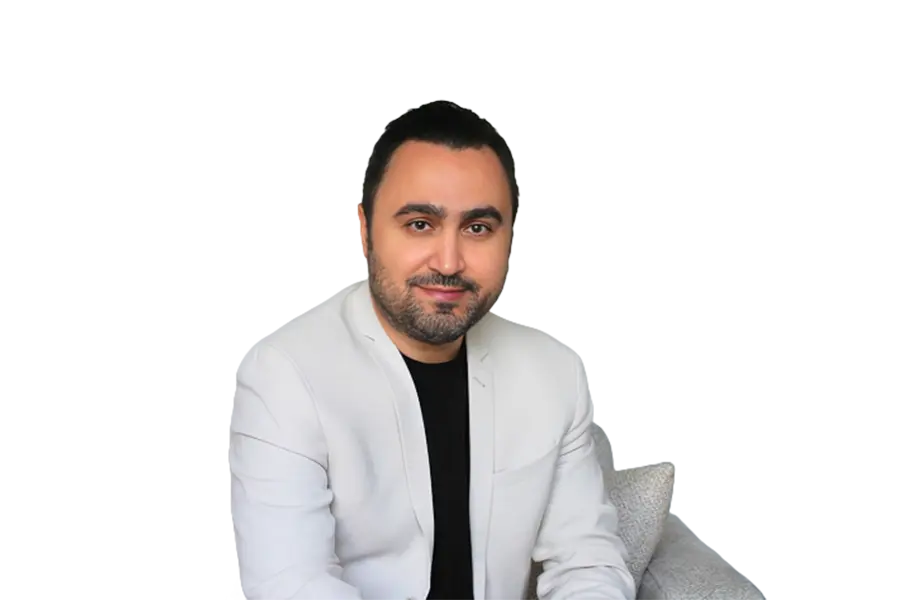
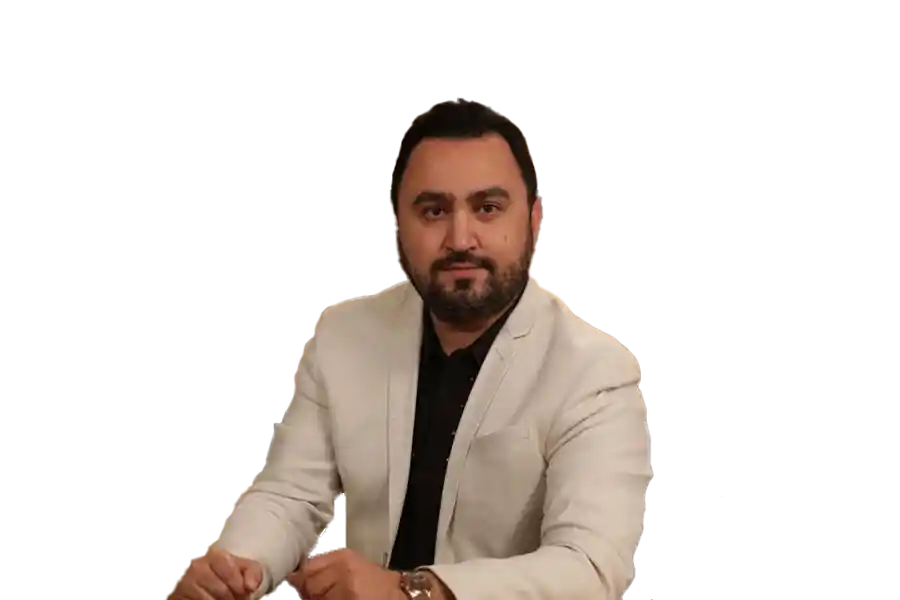
update therapists and cv

Changed region(s): [[0.1867, 0.15, 0.8711, 1.0]]

diff --git a/src/app/therapists/therapistsCVData.ts b/src/app/therapists/therapistsCVData.ts
@@ -12,12 +12,74 @@ export const therapistsCVData: TherapistCV[] = [
     { id: "5", rawCv: "" },
     { id: "6", rawCv: "" },
     { id: "7", rawCv: "" },
-    { id: "8", rawCv: "" },
+    {
+        id: "8",
+        rawCv: `
+ویزیت بصورت حضوری و انلاین:
+ویزیت آنلاین تمام روزهای هفته و حضوری پنجشنبه ها
+شماره پروانه و نظام روانشناسی : ۱۲۴۵۸۹۱
+
+رویکرد درمانی : ACT-CBT
+
+من درمان را یک رابطه میدانم، نه مجموعهای از تکنیکها.
+اتاق درمان برای من فضایی امن است؛ جایی که مراجع میتواند بدون ترس از قضاوت، خودش باشد.
+باور دارم تغییر از دلِ آگاهی و تجربه هیجانیِ امن شکل میگیرد، نه صرفاً از توصیه و راهکار.
+نقش من همراهی کردن است؛ کمک به دیدن الگوها، فهمیدن ریشهها و ساختن انتخابهای تازه.
+
+زمینه های تخصص فعالیت :
+زوج درمانی (تعارض های زناشویی و مشاوره پیش از ازدواج)
+درمان فردی (اضطراب، تنظیم هیجان، افسردگی و اختلالات خلقی)
+
+گروه سنی مراجعین: نوجوان و بزرگسال
+
+فارغ التحصیل دکتری تخصصی روانشناسی دانشگاه تهران
+
+تجربه کاری:
+
+از سال ۱۳۹۷ به مدت ۸ سال فعالیت مشاوره و درمان رو انجام میدم.
+`},
     { id: "9", rawCv: "" },
     { id: "10", rawCv: "" },
     { id: "11", rawCv: "" },
     { id: "12", rawCv: "" },
-    { id: "13", rawCv: "" },
+    {
+        id: "13",
+        rawCv: `
+        
+روزهای حضور:
+
+پنجشنبه ها
+
+سوابق تحصیلی:
+
+کارشناسی ارشد مشاوره از دانشگاه علامه طباطبایی
+
+شماره نظام روانشناسی 46981
+شماره پروانه روانشناسی 9293
+
+سوابق شغلی:
+درمانگر مرکز ایران نخاع از سال 1399 تاکنون
+درمانگر کلینیک روزنه از سال 1400 تاکنون
+درمانگر کلینیک نورسین از سال 1403 تاکنون
+مسئول فنی مرکز مثبت زندگی کد 13191 از سال 1400 تاکنون
+
+حیطه فعالیت:
+درمانگر حوزه فردی و نوجوان
+و حوزه اضطراب، وسواس، افسردگی، سوگ و تروما
+
+رویکرد تخصصی: CBT, ACT
+
+دوره های گذرانده:
+
+دوره کارورزی دکتر محسن محمدی و دکتر کیومرث فرحبخش
+سوپرویژن پیشرفته دکتر محمدی
+تربیت درمانگر کودک نوجوان دکتر سیما قدرتی
+
+
+دیدگاه من به درمان:
+
+درمان سفری مشترک است، جایی که من همراهتان میشوم تا سختیها را آسان تر پشت سر بگذارید. در اتاق درمان لازم نیست کامل باشید؛ همینطور که هستید کافی ست تا با هم برای ساختنِ لحظههایی آرامتر و نسخه ای اصیل تر از خودتان تلاش کنیم.
+`},
     { id: "14", rawCv: "" },
     { id: "15", rawCv: "" },
     {
@@ -124,5 +186,107 @@ Cbt
 مشاوره حضوری و آن لاین ۱۲۰۰
 برای مراجعین خارج از کشور ۳۰ یورو  
 
-🌱پرانرژی باش و آگاه🌱`}
-]
+🌱پرانرژی باش و آگاه🌱`},
+    {
+        id: "22",
+        rawCv: `
+ویزیت بهصورت
+حضوری
+آنلاین
+
+شماره پروانه : 1642157
+نظام روانشناسی :51398
+
+رویکرد درمانی
+درمان مبتنی بر اصالت و درمان شناختی/رفتاری - درمان هیجان مدار - رویکرد رفتار درمانی عقلانی/هیجانی و یکپارچهنگر
+
+نگاه به درمان و یا اتاق درمان:
+
+«اتاق درمان را فضایی انسانی، امن و مبتنی بر اصالت در رابطه میدانم؛ جایی که مراجع بتواند بدون ترس از قضاوت، لایههای مختلف تجربه زیسته، هیجانات و معنای شخصی خود را کشف کند. باور دارم تغییر درمانی در بستری از حضور واقعی، همدلی و پذیرش شکل میگیرد و نقش درمانگر، همراهی آگاهانه در مسیر شناخت عمیقتر خویشتن است.»
+
+زمینههای تخصصی فعالیت:
+زوجدرمانی
+خانواده
+فردی
+پیشاز ازدواج
+
+گروه سنی که مراجع
+بزرگسالان (۱۸ سال به بالا)
+
+فارغ التحصیل مقطع کارشناسی ارشد از دانشگاه آزاد اسلامی واحد تهرانمرکز سال ۱۴۰۰ رشته روانشناسی مثبتگرا
+
+تجربه کاری: در کلینیک روزنه و چند کلینیک دیگر
+
+از سال ۱۴۰۰ شروع به کار کردم.
+
+تعرفه:
+آنلاین و حضوری مبلغ ۸۵۰ تومن`},
+    {
+        id: "23",
+        rawCv: `
+تهران
+حضوری و انلاین
+حضوری : یکشنبه و دوشنبه و سه شنبه
+ساعت ۱۶ به بعد
+غیر حضوری : شنبه و چهارشنبه
+شماره نظام روانشناسی ۸۷۶۶۵
+شماره تماس : شماره کلینیک
+
+رویکرد درمانی : اکت - اصالت - cbt
+
+زمینه تخصص : زوجی ( خانواده ) س-  پیش از ازدواج -   فردی و نوجوان
+
+اتاق درمان از نظر من فضایی است برای ایجاد تغییرات رو به رشد ،یادگیری ،نگاهی دوباره به خودمان و یادگیری هر آنچه نیاز درونمان هست ، فضایی برای بازگو کردن ناگفته های درون ، و تجربه یک زندگی دوباره
+
+فارغ التحصیل مقطع کارشناسی ارشد در رشته مشاوره خانواده
+تعرفه برای سال ۱۴۰۵
+حضوری  ۱۵۰۰
+غیر حضوری ۱۲۰۰
+مراجعین خارج از کشور ۴۰ دلار
+`},
+    {
+        id: "24",
+        rawCv: `
+ویزیت به صورت آنلاین و حضوری
+۱۷۳۳۸۴۹ شماره پروانه
+
+رویکرد درمانی : سیستمی، اکت، اصالت، شناختی رفتاری
+
+اتاق درمان فضایی که عاشقانه دوستش دارم
+
+مشاوره فردی ،زوج درمانی، مشاوره ازدواج و خانواده درمانگر
+
+بزرگسالان
+
+فارغالتحصیل کارشناسی ارشد مشاوره خانواده
+
+برگزاری کارگاه های زوج درمانی و توسعه فردی
+
+از سال ۹۹ شروع به کار
+
+تعرفه ساعتی ۱،۳۰۰
+`},
+    {
+        id: "25",
+        rawCv: `
+تهران
+دکترای تخصصی مشاوره
+
+رویکرد: رفتاردرمانی دیالکتیکی ، هیپنوتراپی
+
+کارشناسی از دانشگاه شهید بهشتی، ارشد از دانشگاه علامه طباطبایی، دکترا از دانشگاه اراک و داراى گواهینامه هاى تکمیلی و پیشرفته هیپنوتیزم درمانی از انجمن هیپنوتیزم بالینی ایران و گواهینامه روانکاوی و طرح واره درمانی.
+
+حوزه فعالیت : بزرگسال / روانشناسی فردی، مسائل بین فردی و ارتباطی، رشد و توسعه فردی.
+
+شماره پروانه ۲۴۳۱ شماره نظام ۳۶۱۳
+
+حضوری: شنبه چهارشنبه
+تلفنی: دوشنبه و سه شنبه
+
+تعرفه حضوری و تلفنی ۱۷۰۰
+تعرفه خارج از کشور: ۴۰ یورو
+(تعرفه ها برای نیمسال اول ۱۴۰۵ میباشد)
+
+تماس با درمانگر: ۰۹۹۲۵۷۲۷۷۳۹
+`}]
+

diff --git a/src/app/therapists/page.tsx b/src/app/therapists/page.tsx
@@ -81,7 +81,7 @@ const mockTherapists: Therapist[] = [
     },
     {
         "id": "8",
-        "name": "رضا معیری",
+        "name": "دکتر رضا معیری",
         "specializations": ["مشاوره فردی وسواس، افسردگی، شكست عاطفی و ...", "مشاوره پیش از ازدواج، زوج و خانواده درمانی", "مشاوره در زمینه تعارض ها و مشکلات بین فردی"],
         "rating": 4.5, "experience": 10, "hourlyRate": 300000,
         "bio": "دکترای تخصصی روانشناسی - درمانگر بالینی مشاوره فردی (وسواس، افسردگی، شكست عاطفی و ...) مشاوره پیش از ازدواج، زوج و خانواده درمانی مشاوره در زمینه تعارض ها و مشکلات بین فردی",
@@ -179,6 +179,34 @@ const mockTherapists: Therapist[] = [
         "specializations": [" اختلالات اضطرابی - ارتقای رشد و توسعه فردی - بزرگسالان - درمان اختلالات افسردگی  "], "rating": 4.5, "experience": 10, "hourlyRate": 300000,
         "bio": "متخصص روانشناسی بالینی - - مشاوره فردی  در خصوص اختلالات شخصیت( وسواس ، اضطراب، افسردگی و .. ) - مشاوره پیش از ازدواج - زوج و خانواده درمانی",
         "image": "/psychologists/21/21.webp", "languages": ["فارسی"], "availableSlots": 10
+    },
+    {
+        "id": "22",
+        "name": "سیده زهرا نوریزاده",
+        "specializations": [" زوجدرمانی - خانواده - فردی - پیشاز ازدواج   "], "rating": 4.5, "experience": 10, "hourlyRate": 300000,
+        "bio": "متخصص روانشناسی بالینی - - مشاوره فردی  در خصوص اختلالات شخصیت( وسواس ، اضطراب، افسردگی و .. ) - مشاوره پیش از ازدواج - زوج و خانواده درمانی",
+        "image": "/psychologists/22/22.webp", "languages": ["فارسی"], "availableSlots": 10
+    },
+    {
+        "id": "23",
+        "name": "فاطمه ماه روح ",
+        "specializations": [" زوجی ( خانواده )  - پیش از ازدواج  - فردی -نوجوان   "], "rating": 4.5, "experience": 10, "hourlyRate": 300000,
+        "bio": "متخصص روانشناسی بالینی - - مشاوره فردی  در خصوص اختلالات شخصیت( وسواس ، اضطراب، افسردگی و .. ) - مشاوره پیش از ازدواج - زوج و خانواده درمانی",
+        "image": "/psychologists/23/23.webp", "languages": ["فارسی"], "availableSlots": 10
+    },
+    {
+        "id": "24",
+        "name": "یاسمن طبائیان ",
+        "specializations": [" مشاوره فردی - زوج درمانی - مشاوره ازدواج - خانواده درمانگر بزرگسالان   "], "rating": 4.5, "experience": 10, "hourlyRate": 300000,
+        "bio": "متخصص روانشناسی بالینی - - مشاوره فردی  در خصوص اختلالات شخصیت( وسواس ، اضطراب، افسردگی و .. ) - مشاوره پیش از ازدواج - زوج و خانواده درمانی",
+        "image": "/psychologists/24/24.webp", "languages": ["فارسی"], "availableSlots": 10
+    },
+    {
+        "id": "25",
+        "name": "محمد بدرخانی",
+        "specializations": [" بزرگسال -  فردی - مسائل بین فردی و ارتباطی - رشد و توسعه فردی    "], "rating": 4.5, "experience": 10, "hourlyRate": 300000,
+        "bio": "متخصص روانشناسی بالینی - - مشاوره فردی  در خصوص اختلالات شخصیت( وسواس ، اضطراب، افسردگی و .. ) - مشاوره پیش از ازدواج - زوج و خانواده درمانی",
+        "image": "/psychologists/25/25.webp", "languages": ["فارسی"], "availableSlots": 10
     }
 ]
 

diff --git a/src/app/therapists/[id]/page.tsx b/src/app/therapists/[id]/page.tsx
@@ -79,7 +79,7 @@ const mockTherapists: Therapist[] = [
     },
     {
         "id": "8",
-        "name": "رضا معیری",
+        "name": " دکتر رضا معیری ",
         "rating": 4.5, "experience": 10, "hourlyRate": 300000,
         "image": "/psychologists/8/image (5).webp", "languages": ["فارسی"], "availableSlots": 10
     },
@@ -157,9 +157,33 @@ const mockTherapists: Therapist[] = [
     },
     {
         "id": "21",
-        "name": "بهاره نعمتی روشن",
+        "name": "منصوره روحانی فر",
         "rating": 4.5, "experience": 10, "hourlyRate": 300000,
         "image": "/psychologists/21/21.webp", "languages": ["فارسی"], "availableSlots": 10
+    },
+    {
+        "id": "22",
+        "name": "سیده زهرا نوریزاده",
+        "rating": 4.5, "experience": 10, "hourlyRate": 300000,
+        "image": "/psychologists/22/22.webp", "languages": ["فارسی"], "availableSlots": 10
+    },
+    {
+        "id": "23",
+        "name": "فاطمه ماه روح ",
+        "rating": 4.5, "experience": 10, "hourlyRate": 300000,
+        "image": "/psychologists/23/23.webp", "languages": ["فارسی"], "availableSlots": 10
+    },
+    {
+        "id": "24",
+        "name": "یاسمن طبائیان ",
+        "rating": 4.5, "experience": 10, "hourlyRate": 300000,
+        "image": "/psychologists/24/24.webp", "languages": ["فارسی"], "availableSlots": 10
+    },
+    {
+        "id": "25",
+        "name": "محمد بدرخانی",
+        "rating": 4.5, "experience": 10, "hourlyRate": 300000,
+        "image": "/psychologists/25/25.webp", "languages": ["فارسی"], "availableSlots": 10
     }
 ]
 
